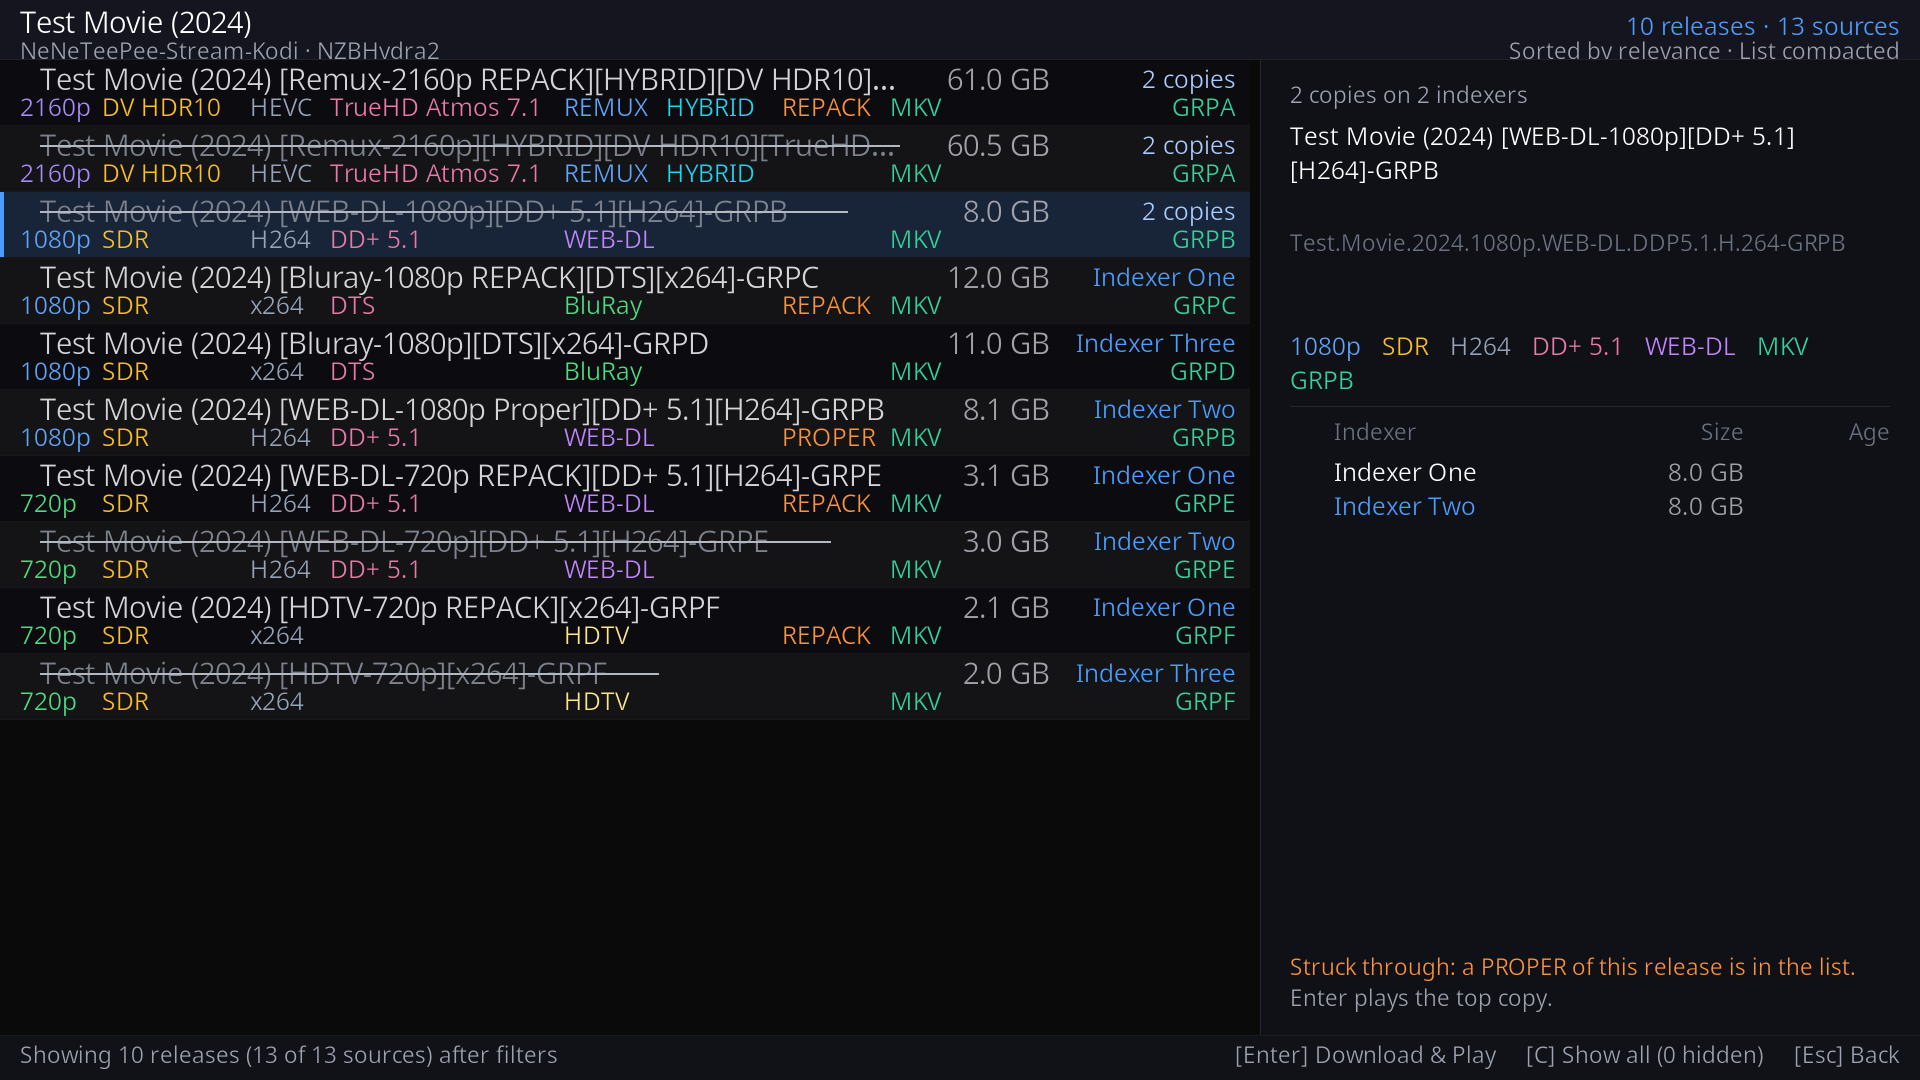
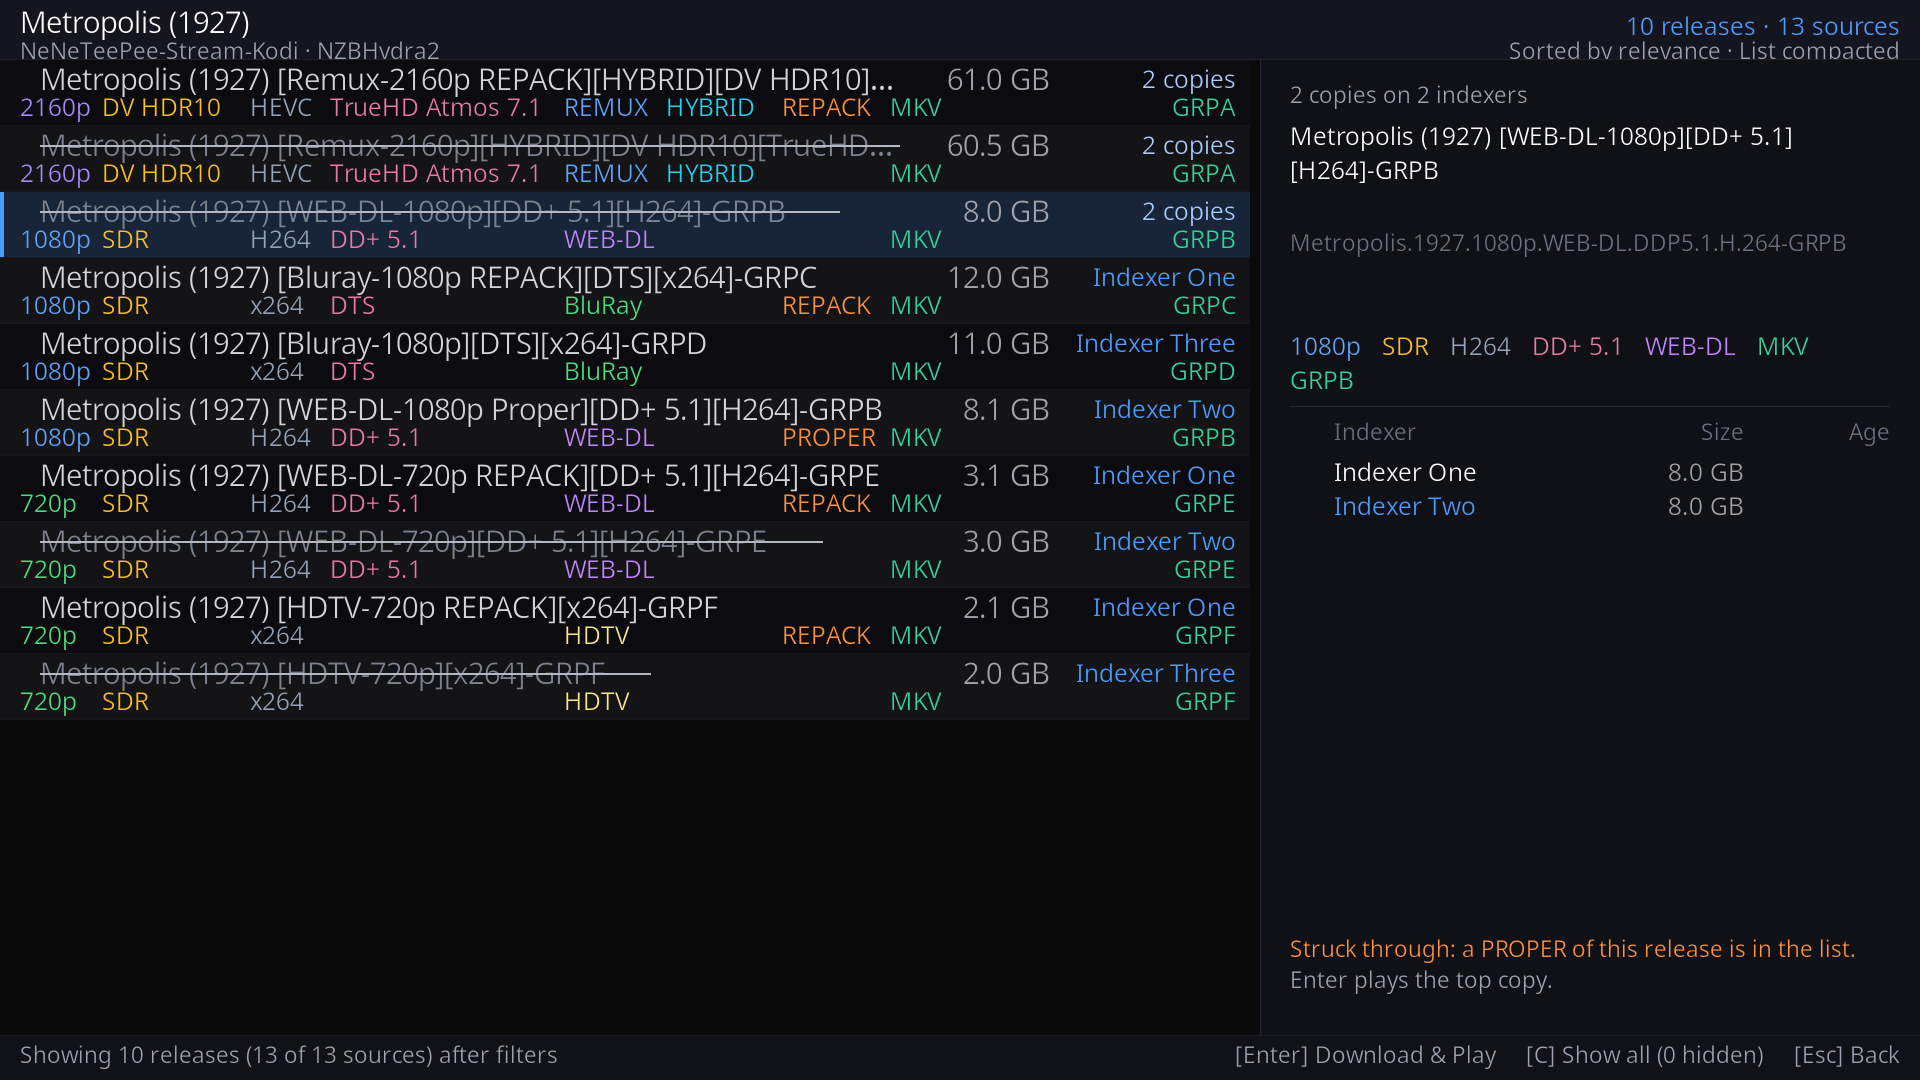
Show the picker's REPACK tag and strikethrough in the docs with a GIF
The picker pictures use Metropolis (1927) names and generic indexer and
group names. The chart takes the add-on's palette.

diff --git a/docs-site/features/quality-filtering.md b/docs-site/features/quality-filtering.md
@@ -451,9 +451,18 @@ flowchart TD
     C -->|yes| D{Same title and year or episode,<br/>edition, resolution, HDR, audio,<br/>channels, source, codec and HYBRID?}
     D -->|no| KEEP
     D -->|yes| STRIKE[Name greyed and struck through]
+    classDef keep fill:#1E1E2E,stroke:#34D399,color:#FFFFFF
+    classDef strike fill:#1E1E2E,stroke:#F87171,color:#FFFFFF
+    class KEEP keep
+    class STRIKE strike
 ```
 
-![The picker with REPACK and PROPER tags and the releases they replace struck through](../images/picker-repack.png)
+![Moving through the picker in both views: REPACK and PROPER tags in orange, and the releases they replace struck through](../images/picker-repack.gif)
+
+In **List compacted**, the side panel of a struck-through release says which
+tag replaced it:
+
+![List compacted with a struck-through release focused; the side panel reads "Struck through: a PROPER of this release is in the list."](../images/picker-repack.png)
 
 A struck-through release still plays if you pick it. Kodi's text has no
 strikethrough, so the picker draws the line and estimates its length from the
